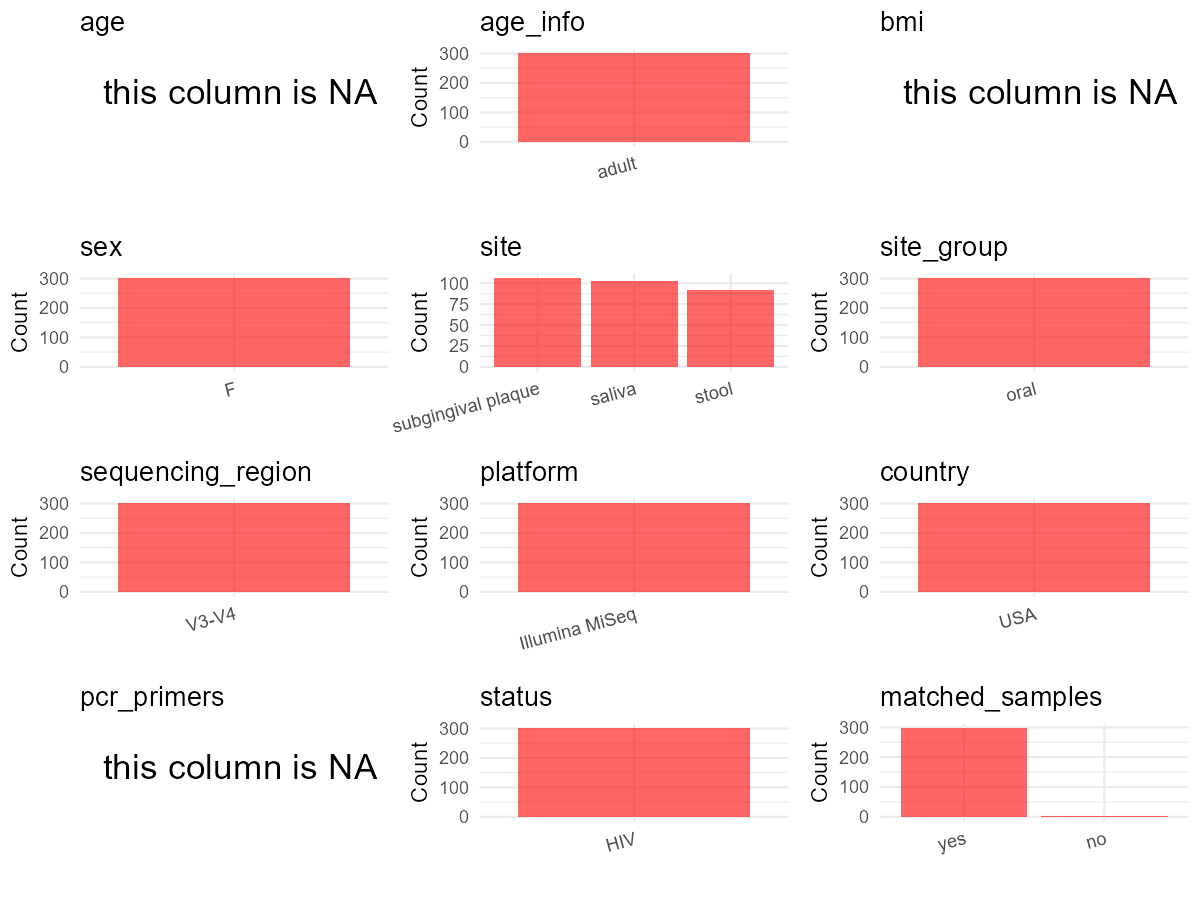
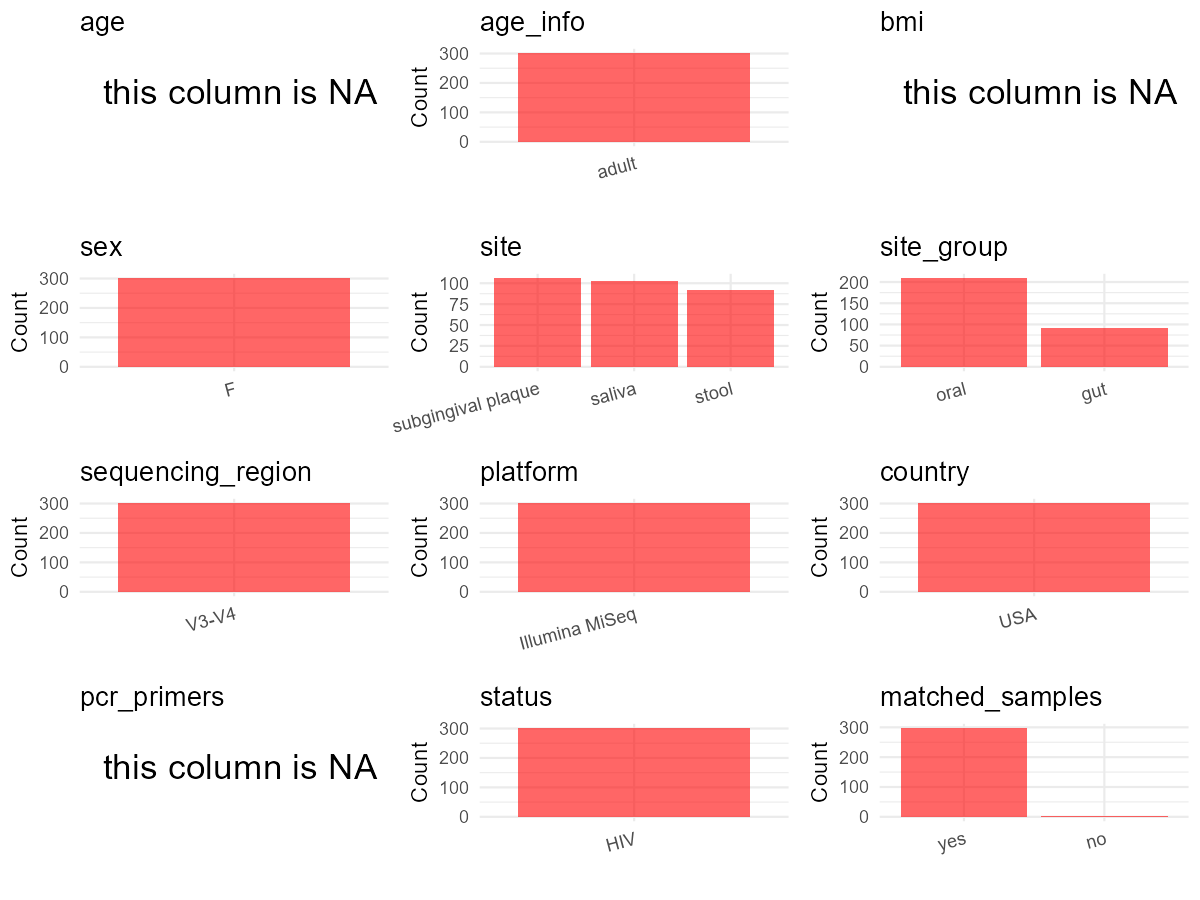
zyc_metadata_revise

Changed region(s): [[0.8325, 0.3111, 0.9867, 0.4044], [0.6783, 0.3111, 0.7708, 0.4044], [0.8942, 0.4356, 0.925, 0.4667]]

diff --git a/data/projects/PRJNA471556/metadata_curation_v2.md b/data/projects/PRJNA471556/metadata_curation_v2.md
@@ -272,9 +272,9 @@ unique(metadata$site)
 
 ``` r
 # EDIT HERE: add oral sites
-Oral_site = c("saliva","stool","subgingival plaque")
+Oral_site = c("saliva","subgingival plaque")
 # EDIT HERE: add gut sites
-Gut_site = c("none")
+Gut_site = c("stool")
 # just run
 metadata <- metadata %>%
   mutate(site_group = case_when(
